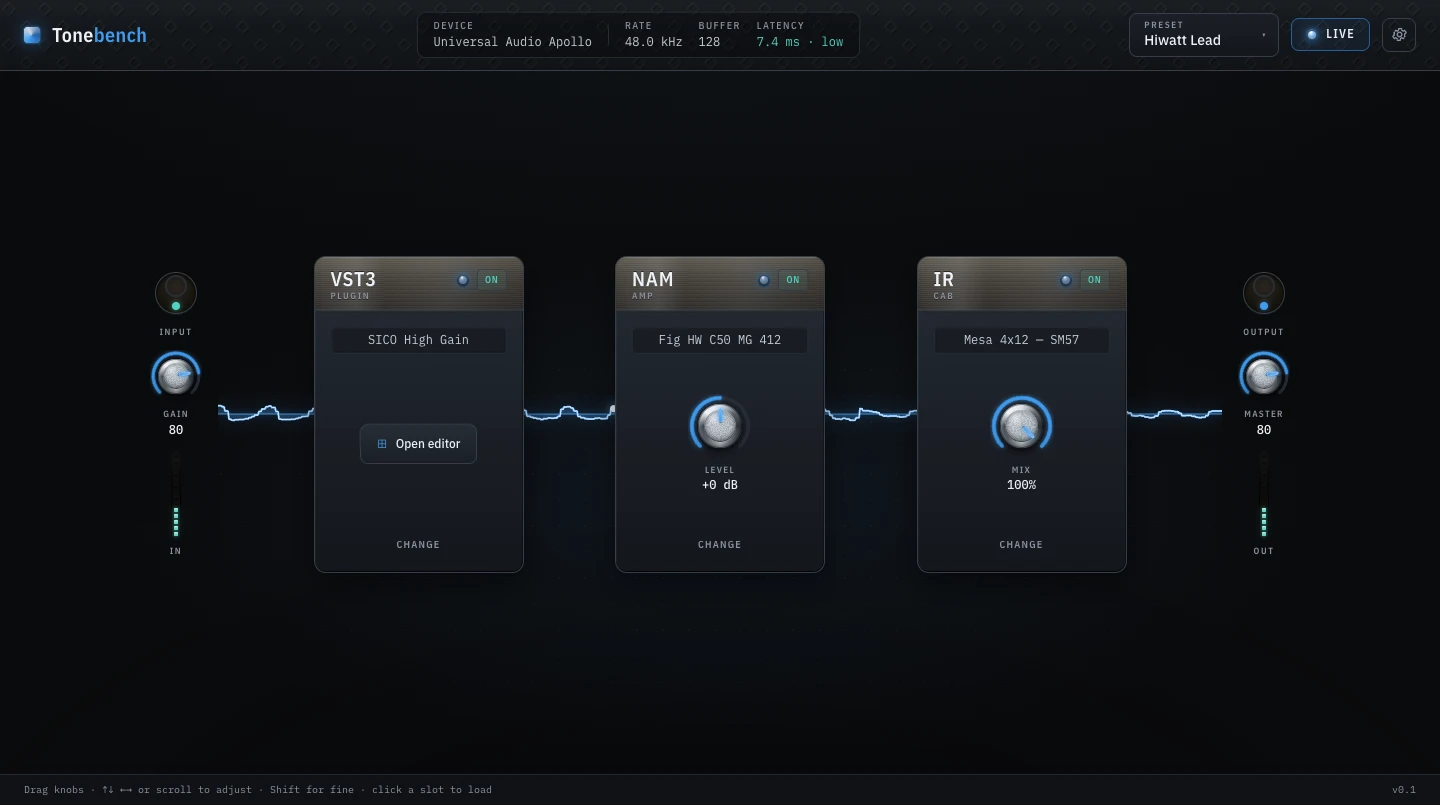
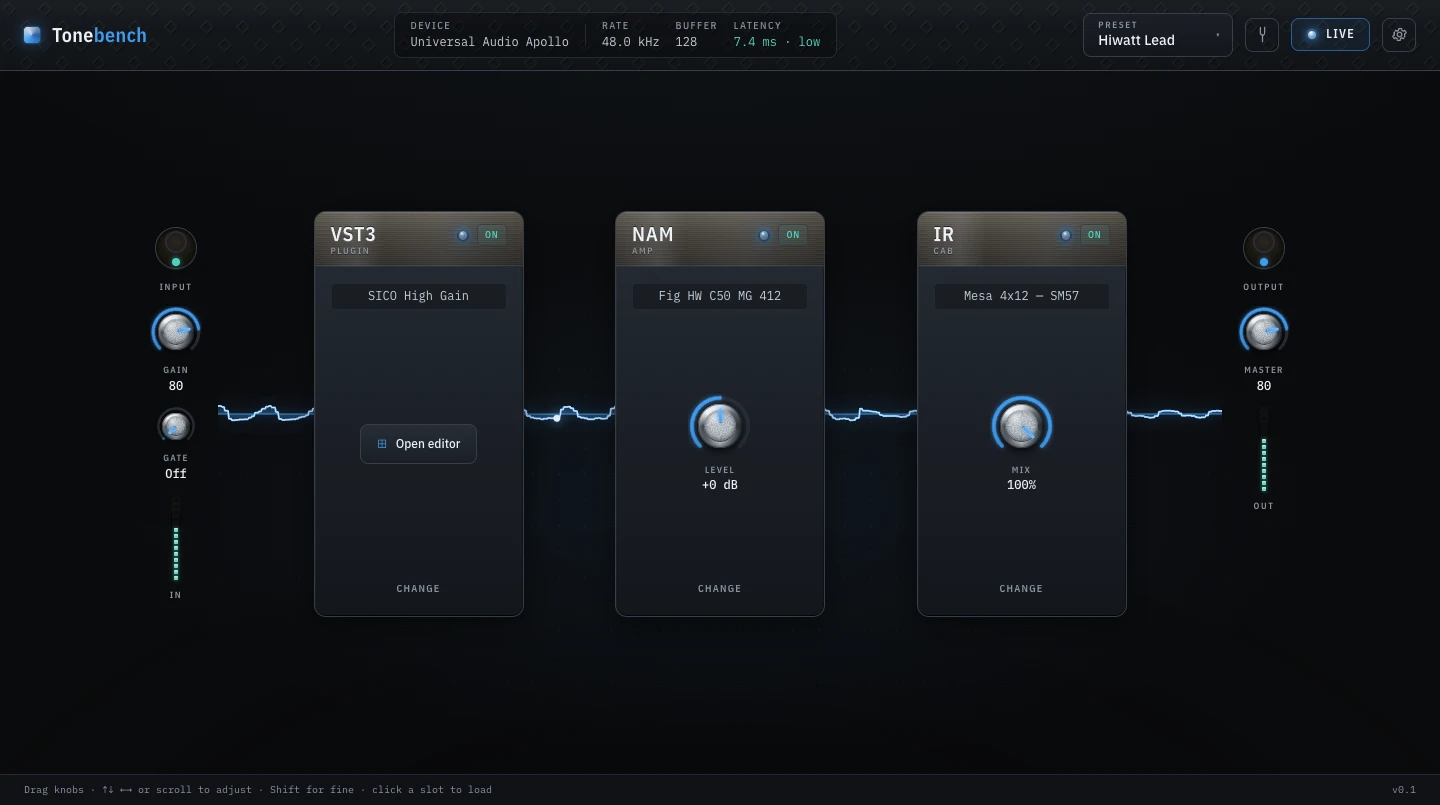
Mock levels like a real guitar; site, README and roadmap mention the tuner and gate

diff --git a/ui/src/bridge.ts b/ui/src/bridge.ts
@@ -104,7 +104,9 @@ function createMockBridge(): Bridge {
     const phase = (t % 2.2) / 2.2;
     const env = phase < 0.04 ? phase / 0.04 : Math.exp(-(phase - 0.04) * 3.1);
     const strum = state.playing ? Math.max(0, env) * (0.7 + 0.3 * Math.sin(t * 9)) : 0;
-    state.inputLevel = Math.min(1, (strum * 0.9 + (state.playing ? 0.04 : 0)) * state.inputGain);
+    // Peak levels like a real guitar DI: about -14 dBFS on the pick, -40 between notes.
+    const drive = (strum * 0.9 + (state.playing ? 0.04 : 0)) * state.inputGain;
+    state.inputLevel = Math.min(1, drive * 0.25 + (state.playing ? 0.01 : 0));
     const chainGain = anyLoaded ? 1.15 : 1;
     state.outputLevel = Math.min(1, state.inputLevel * chainGain * state.masterGain);
     emit();
@@ -127,7 +129,8 @@ function createMockBridge(): Bridge {
     }
 
     if (scopeSubs.size) {
-      const amp = state.inputLevel > 0.02 ? state.outputLevel : 0; // gate on input
+      // The scope is drawn on its own (compressed) scale, so feed it the strum.
+      const amp = drive > 0.02 ? Math.min(1, drive * chainGain * state.masterGain) : 0; // gate on input
       const pts: number[] = [];
       for (let i = 0; i < 48; i++) {
         scopePhase += 0.42;

diff --git a/site/index.html b/site/index.html
@@ -307,6 +307,7 @@
       <li>Loads NAM amp models (<code>.nam</code> files). If your interface runs at a different sample rate, Tonebench resamples as you play, so you don’t have to care.</li>
       <li>Loads a cab IR (WAV, AIFF, or FLAC) with no added latency.</li>
       <li>Runs them in that order: plugin, then amp, then cab. You can switch any slot off. The amp has a level knob and the cab has a mix knob.</li>
+      <li>Has a tuner, and a noise gate on the input for high-gain models that hiss. The gate is off until you turn it up.</li>
       <li>Saves the whole rig as a preset, so you can load it again later.</li>
       <li>Shows your audio device, sample rate, buffer size, and round-trip latency along the top, and the signal on a scope as you play.</li>
     </ul>

diff --git a/README.md b/README.md
@@ -30,6 +30,7 @@ of fun. I'm happy with where it ended up.
   interface, it resamples in real time so you don't have to care.
 - Loads impulse responses for cab sims, with no added latency.
 - Runs the three as an ordered chain (plugin, then amp, then cab), and you can bypass any slot.
+- Has a tuner, and a one-knob noise gate on the input (off until you turn it up).
 - Saves and recalls whole rigs as presets.
 - Shows the live signal moving through the chain while you play.
 - Walks you through setup the first time: pick your interface, play a few notes so it can find

diff --git a/docs/ROADMAP.md b/docs/ROADMAP.md
@@ -33,6 +33,9 @@ permission, feedback, or no idea where to get a model. These fix that.
 
 ## Next: the things every guitarist reaches for
 
+*Done on the `overnight` branch: the tuner, the noise gate, meters in dB with peak hold, and
+smooth knobs. Still to do: input gain that can boost, starter sounds, drag and drop.*
+
 - **Tuner.** There's no good free cross-platform tuner plugin, and you shouldn't need one. A
   button in the top bar; mutes the output while it's open.
 - **Noise gate** on the input, one knob, off by default. High-gain NAM models hiss without one.
